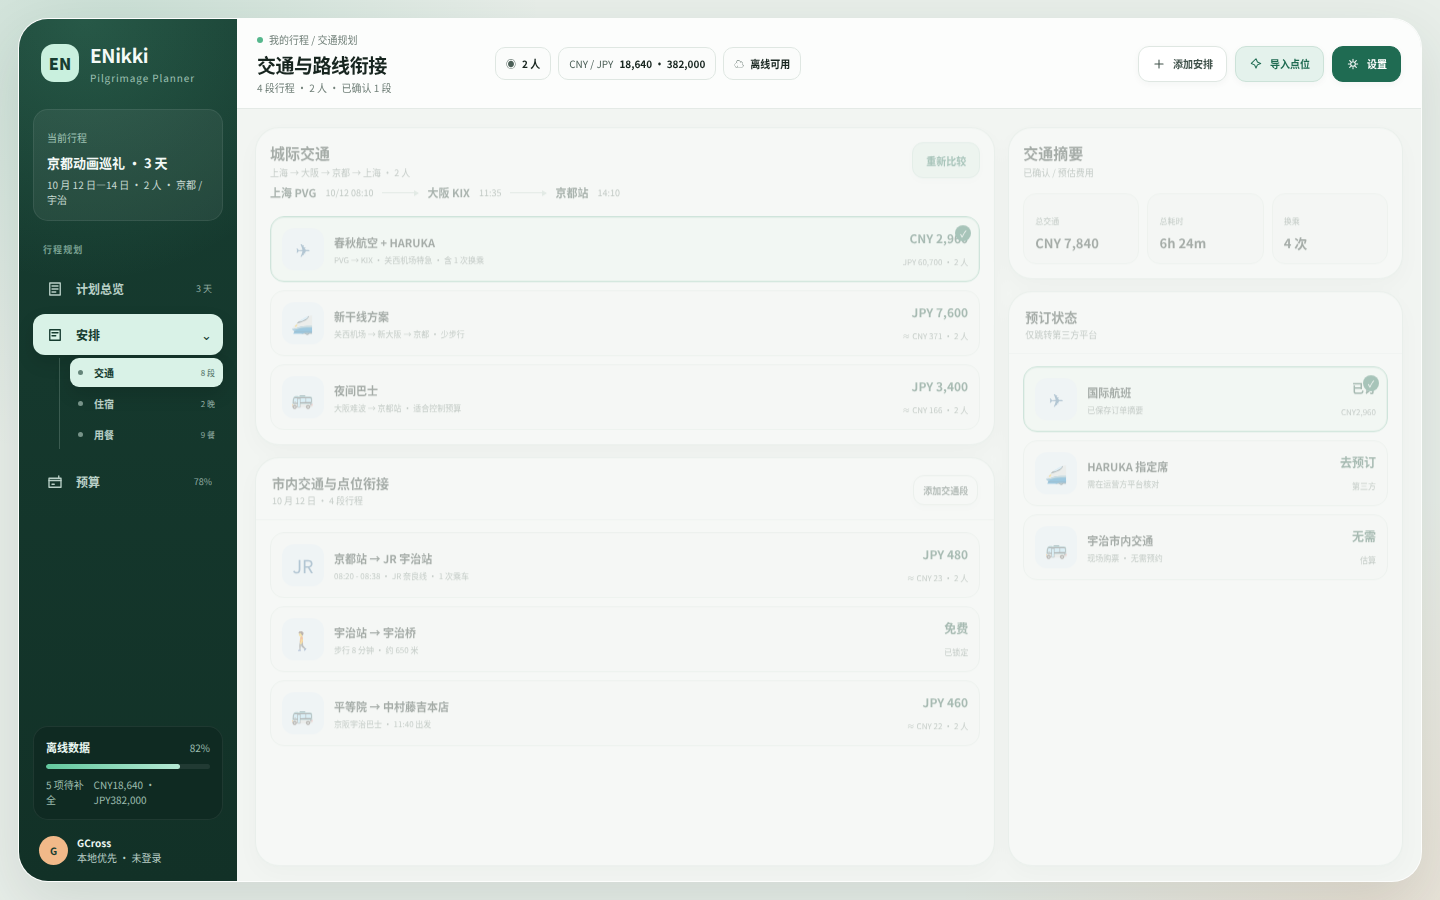
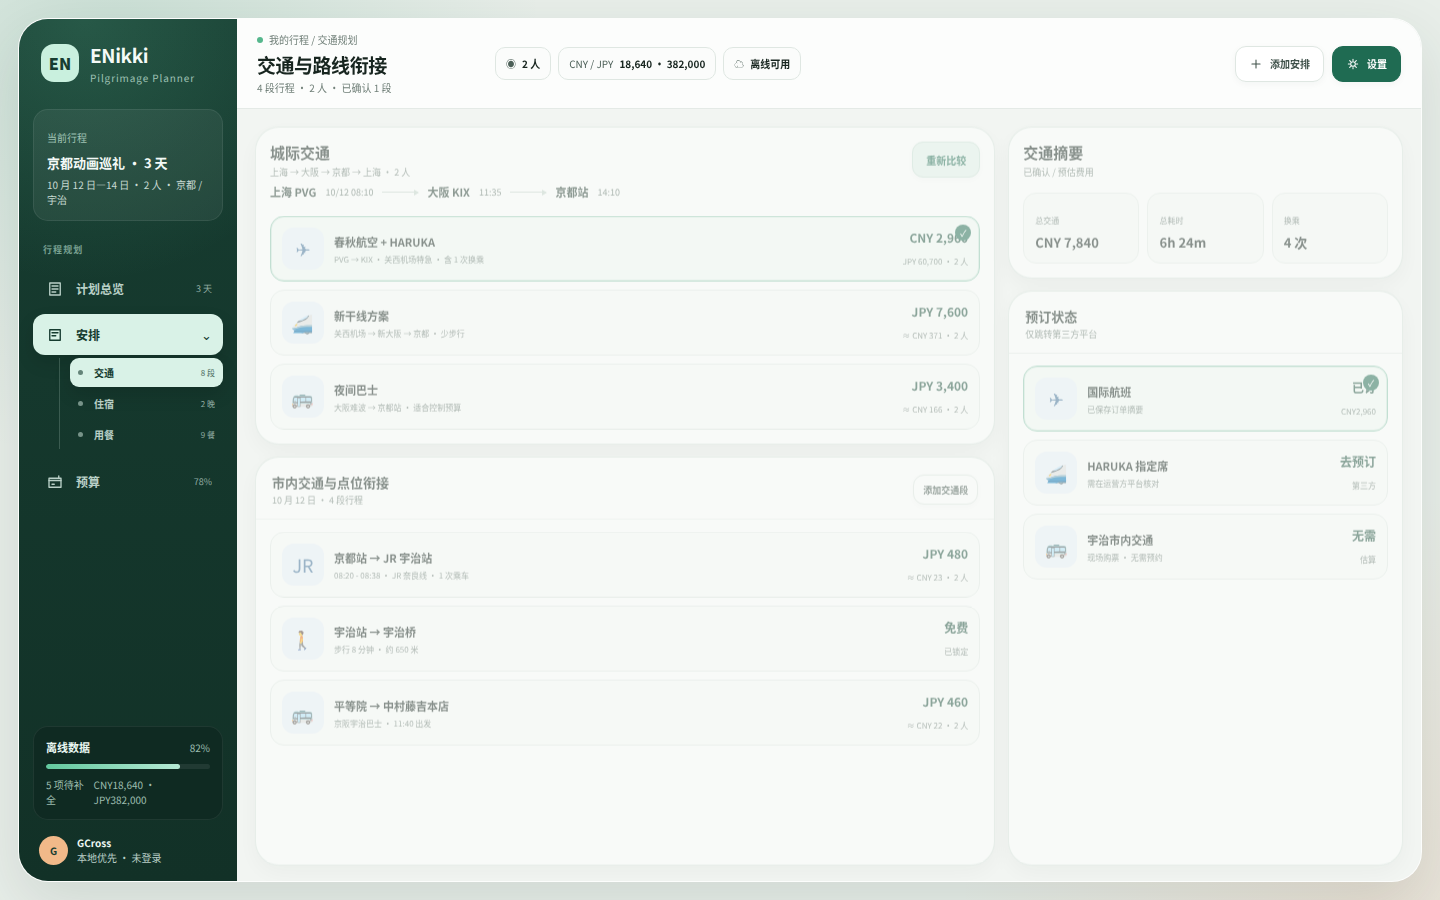
design: move Anitabi import into map context

diff --git a/design/enikki-ui.html b/design/enikki-ui.html
@@ -101,7 +101,7 @@ button,input{font:inherit}button{border:0;cursor:pointer}svg{display:block}
   .top-meta{display:none}.top-actions{margin-left:auto}.top-actions .btn{display:none}.top-actions .btn.primary,.top-actions .btn.top-quick-add{display:inline-flex!important;min-height:33px;padding:0 9px}.top-actions .top-quick-add{color:var(--green);border-color:#c6dfd3;background:#eff8f4}
   .content{padding:10px;overflow:auto}
   .view{height:auto;min-height:100%}.daybar{height:auto;margin-bottom:9px;overflow-x:auto;padding-bottom:2px}.day-summary{display:none}.day-tabs button{min-width:105px}
-  .planner-grid,.section-grid{display:block;height:auto}.map-card{height:390px;margin-bottom:10px}.map-status{top:63px;right:10px;width:155px}.map-legend{max-width:220px;flex-wrap:wrap}.map-search{width:215px}.map-head{top:10px;left:10px;right:10px}
+  .planner-grid,.section-grid{display:block;height:auto}.map-card{height:390px;margin-bottom:10px}.map-status{top:63px;right:10px;width:155px}.map-legend{max-width:220px;flex-wrap:wrap}.map-search{width:215px}.map-layers .import-chip{display:none}.map-head{top:10px;left:10px;right:10px}
   .side-stack{height:auto}.timeline-card{height:610px}.summary-strip{grid-template-columns:1fr;gap:6px}.summary-box{display:flex;align-items:center;justify-content:space-between}.summary-box b{margin:0}
   .section-main,.section-side{display:block}.section-main>.card,.section-side>.card{margin-bottom:10px}.option-list,.meal-grid,.expense-list,.offline-grid{flex:none}.meal-grid,.offline-grid{grid-template-columns:1fr}.mini-map{height:210px}.zone.a{left:46px}.option{grid-template-columns:38px minmax(0,1fr) auto}.option-ico{width:38px;height:38px}.budget-hero .subline{flex-wrap:wrap;gap:8px 12px}.donut-wrap{grid-template-columns:105px 1fr}.donut{width:100px;height:100px}.donut:before{inset:19px}
 }
@@ -204,7 +204,6 @@ button,input{font:inherit}button{border:0;cursor:pointer}svg{display:block}
       </div>
       <div class="top-actions">
         <button class="btn" onclick="openPlanEditor('spot')"><svg viewBox="0 0 24 24"><path d="M12 5v14M5 12h14"/></svg>添加安排</button>
-        <button class="btn soft" onclick="toast('Anitabi 点位已同步：38 / 46')"><svg viewBox="0 0 24 24"><path d="m12 3 2.5 5.5L20 11l-5.5 2.5L12 19l-2.5-5.5L4 11z"/></svg>导入点位</button>
         <button class="btn top-quick-add" onclick="openPlanEditor('spot')"><svg viewBox="0 0 24 24"><path d="M12 5v14M5 12h14"/></svg>添加</button>
         <button class="btn primary settings-top-action" id="settingsTopButton" onclick="activateView('settings')"><svg viewBox="0 0 24 24"><path d="M12 8a4 4 0 100 8 4 4 0 000-8z"/><path d="M4 12h2M18 12h2M12 4v2M12 18v2M6.3 6.3l1.4 1.4M16.3 16.3l1.4 1.4M17.7 6.3l-1.4 1.4M7.7 16.3l-1.4 1.4"/></svg>设置</button>
       </div>
@@ -231,7 +230,7 @@ button,input{font:inherit}button{border:0;cursor:pointer}svg{display:block}
           <div class="card map-card">
             <div class="map-head">
               <div class="map-search"><svg viewBox="0 0 24 24"><circle cx="11" cy="11" r="6"/><path d="m16 16 4 4"/></svg><span>搜索作品、点位、餐厅或酒店</span></div>
-              <div class="map-layers"><button class="map-chip">点位 38/46 ▾</button></div>
+              <div class="map-layers"><button class="map-chip import-chip" onclick="toast('从 Anitabi 导入当前 Bangumi 作品点位')">＋ 导入 Anitabi 点位</button><button class="map-chip">点位 38/46 ▾</button></div>
             </div>
             <div class="map-canvas">
               <svg viewBox="0 0 1000 690" preserveAspectRatio="xMidYMid slice">
